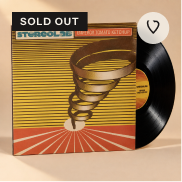
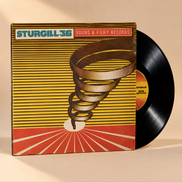
Remove baked UI from vinyl product artwork

diff --git a/src/shop.css b/src/shop.css
@@ -35,6 +35,4 @@
 .shop-product-card .product-art.has-shop-image .favorite.selected img{filter:invert(38%) sepia(98%) saturate(2091%) hue-rotate(344deg) brightness(104%)}
 .shop-product-card .product-art.has-shop-image .product-badge{z-index:3;background:#c1ff12;color:#1a1818}
 .shop-product-card .product-art.has-shop-image .product-badge.sold{background:#1a1818;color:#fff}
-.vinyl-page .shop-product-card .product-art.has-shop-image .favorite{top:8px;right:6px;width:40px;height:40px}
-.vinyl-page .shop-product-card .product-art.has-shop-image .product-badge.sold{top:10px;left:10px;padding:6px 9px}
 .vinyl-page .collection-hero-image{max-height:349px;mix-blend-mode:normal}
